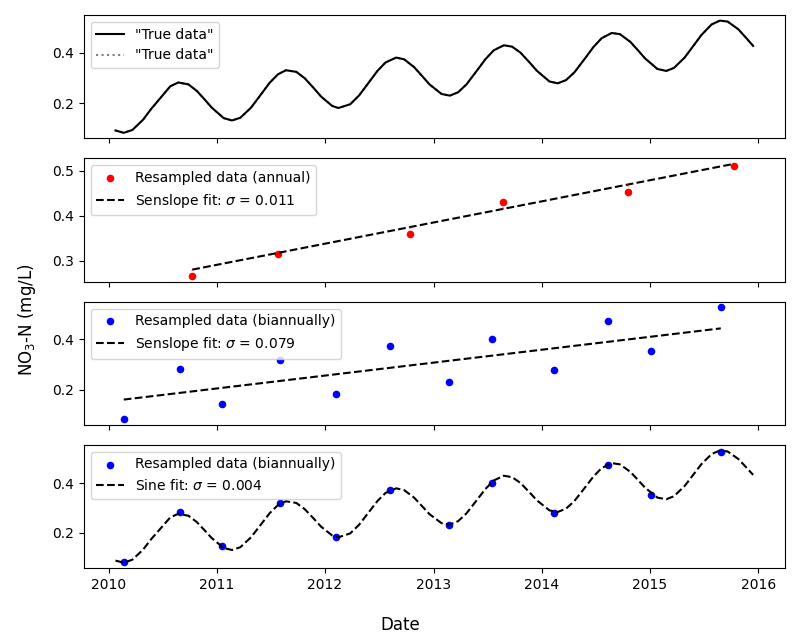
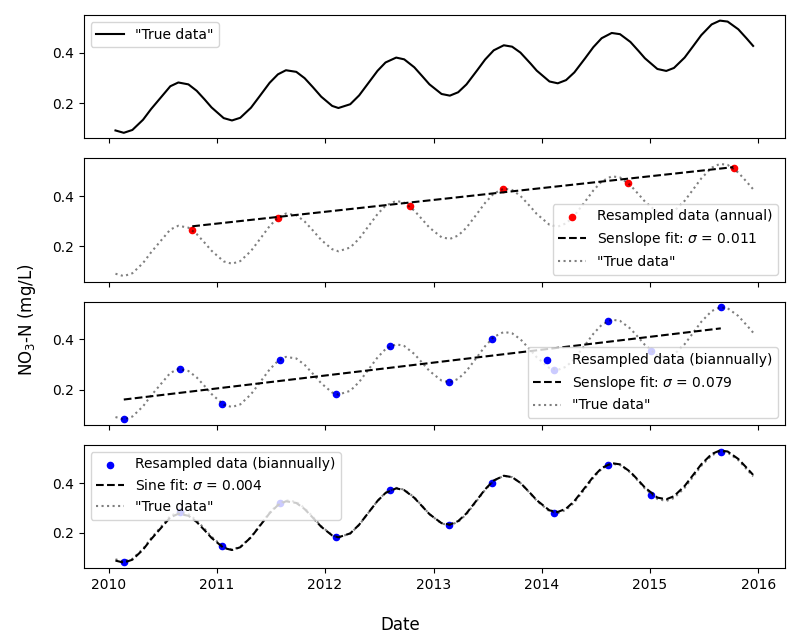
small bug

diff --git a/supporting_analysis/syntetic_resampling.py b/supporting_analysis/syntetic_resampling.py
@@ -163,7 +163,7 @@ if __name__ == '__main__':
     axs[3].plot(ndata.index, new_predicted_full, label='Sine fit: $\\sigma$ = {:.3f}'.format(np.std(new_residual)), color='black', ls='--')
 
     for i, ax in enumerate(axs):
-        if i == 0:
+        if i != 0:
             ax.plot(ndata.index, ndata['predicted_seasonal'], label='"True data"', color='black', ls=':', alpha=0.5)
         ax.legend()
 
